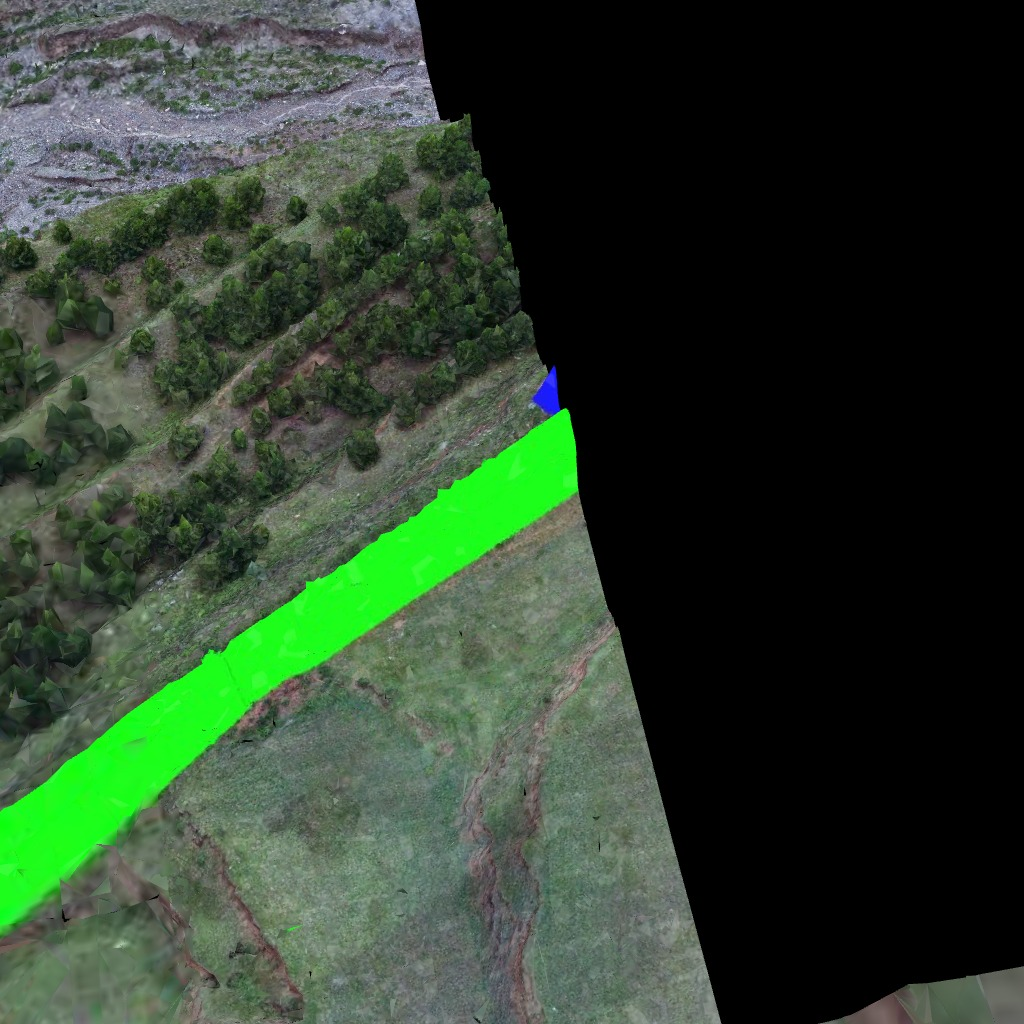
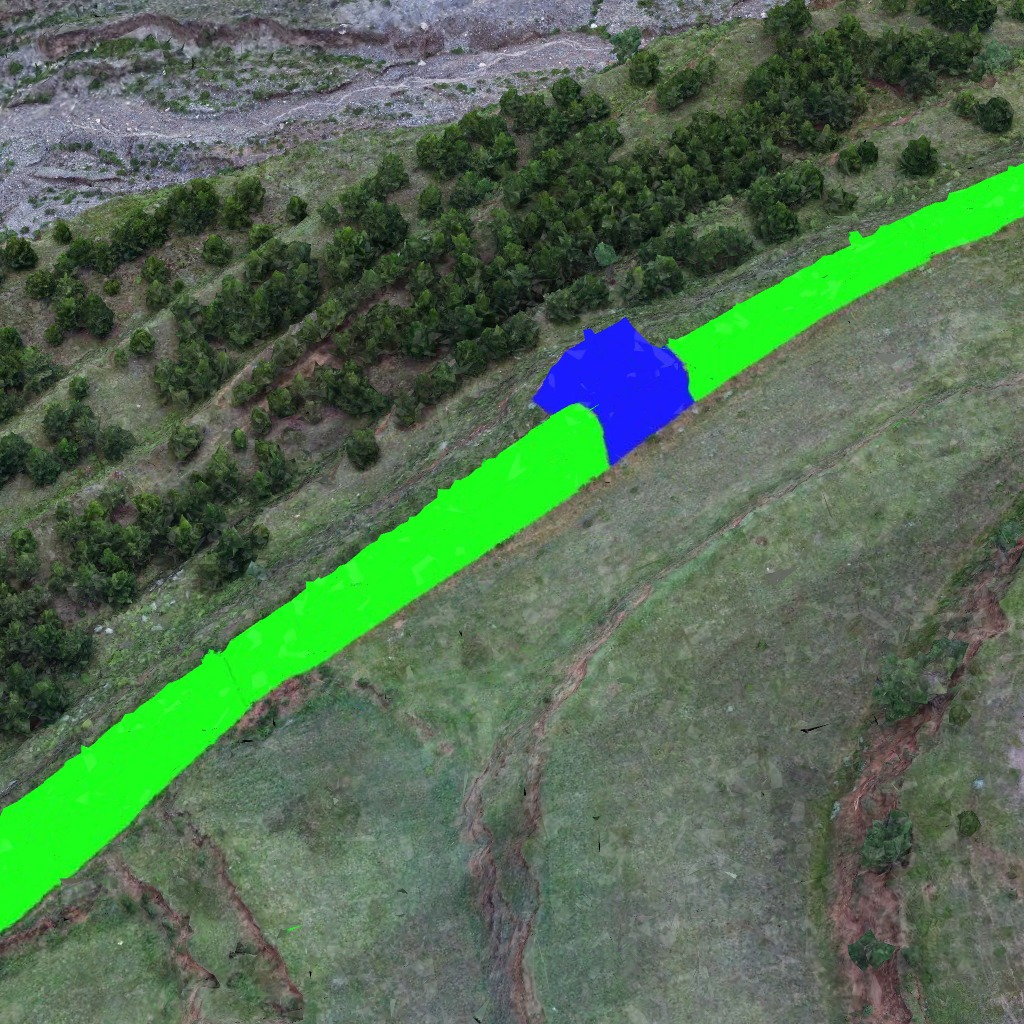
功能基本完善

diff --git a/src/App.tsx b/src/App.tsx
@@ -278,19 +278,7 @@ function App() {
         cesiumViewer.imageryLayers.removeAll();
         cesiumViewer.scene.primitives.removeAll();
 
-        // const tilesetPaths = [
-            // '/3DTiles/Data/Tile_1/Tile_1.json',
-            // '/3DTiles/Data/Tile_10/Tile_10.json',
-            // '/3DTiles/Data/Tile_23/Tile_23.json',
-            // '/3DTiles/Data/Tile_24/Tile_24.json',
-            // '/3DTiles/Data/Tile_40/Tile_40.json',
-            // '/3DTiles/Data/Tile_42/Tile_42.json',
-            // '/3DTiles/Data/Tile_43/Tile_43.json',
-            // '/3DTiles/Data/Tile_44/Tile_44.json',
-            // '/3DTiles/Data/Tile_45/Tile_45.json',
-            // '/3DTiles/Data/Tile_46/Tile_46.json',
 
-        // ];
 
         const tilesetPaths = [
             "/3DTiles/Data/Tile_1/Tile_1.json",

diff --git a/anno2mask.py b/anno2mask.py
@@ -1,0 +1,49 @@
+import cv2
+import numpy as np
+import os
+
+# ====== 配置 ======
+input_dir = "./outputs/img_annotation"   # 标注渲染图目录
+output_dir = "./outputs/img_mask"        # 输出 mask 目录
+os.makedirs(output_dir, exist_ok=True)
+
+# ====== 类别定义（OpenCV: BGR）=====
+# 类别编号一定要连续：0,1,2,3,4
+# 0 = 背景（默认）
+COLOR_CLASSES = {
+    1: ((0, 0, 200), (80, 80, 255)),     # 红色
+    2: ((0, 200, 0), (80, 255, 80)),     # 绿色
+    3: ((200, 0, 0), (255, 80, 80)),     # 蓝色
+    4: ((0, 200, 200), (80, 255, 255)), # 黄色
+}
+
+# ====== 主处理 ======
+for fname in os.listdir(input_dir):
+    if not fname.lower().endswith((".png", ".jpg", ".jpeg")):
+        continue
+
+    img_path = os.path.join(input_dir, fname)
+    img = cv2.imread(img_path)
+
+    if img is None:
+        print("读取失败:", fname)
+        continue
+
+    h, w, _ = img.shape
+    mask = np.zeros((h, w), dtype=np.uint8)  # 单通道 mask
+
+    for class_id, (lower, upper) in COLOR_CLASSES.items():
+        lower = np.array(lower, dtype=np.uint8)
+        upper = np.array(upper, dtype=np.uint8)
+
+        color_mask = cv2.inRange(img, lower, upper)
+        mask[color_mask > 0] = class_id
+
+    # 输出文件名
+    name, _ = os.path.splitext(fname)
+    out_path = os.path.join(output_dir, name + "_mask.png")
+
+    cv2.imwrite(out_path, mask)
+    print("已生成:", out_path)
+
+print("全部 mask 生成完成 ✅")

diff --git a/mask_check.py b/mask_check.py
@@ -1,0 +1,12 @@
+import cv2
+import numpy as np
+
+m = cv2.imread("./outputs/img_mask/view_1 (1)_mask.png", cv2.IMREAD_UNCHANGED)
+print(np.unique(m))
+
+
+# 0 = 背景
+# 1 = 红
+# 2 = 绿
+# 3 = 蓝
+# 4 = 黄
